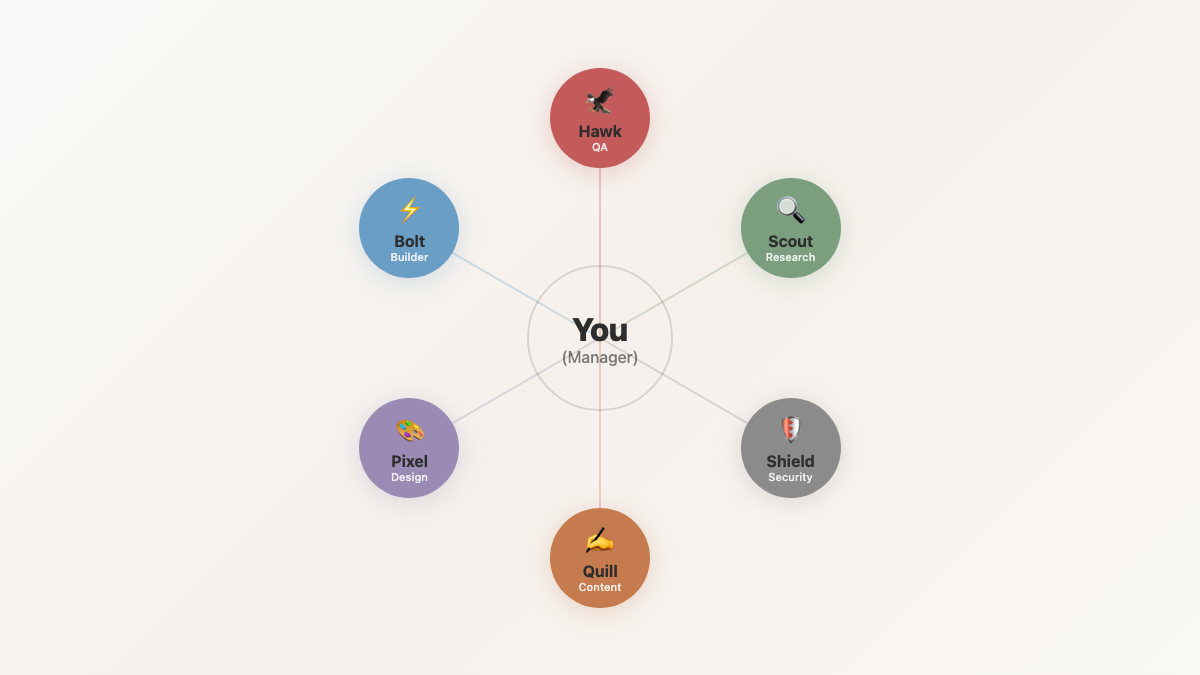
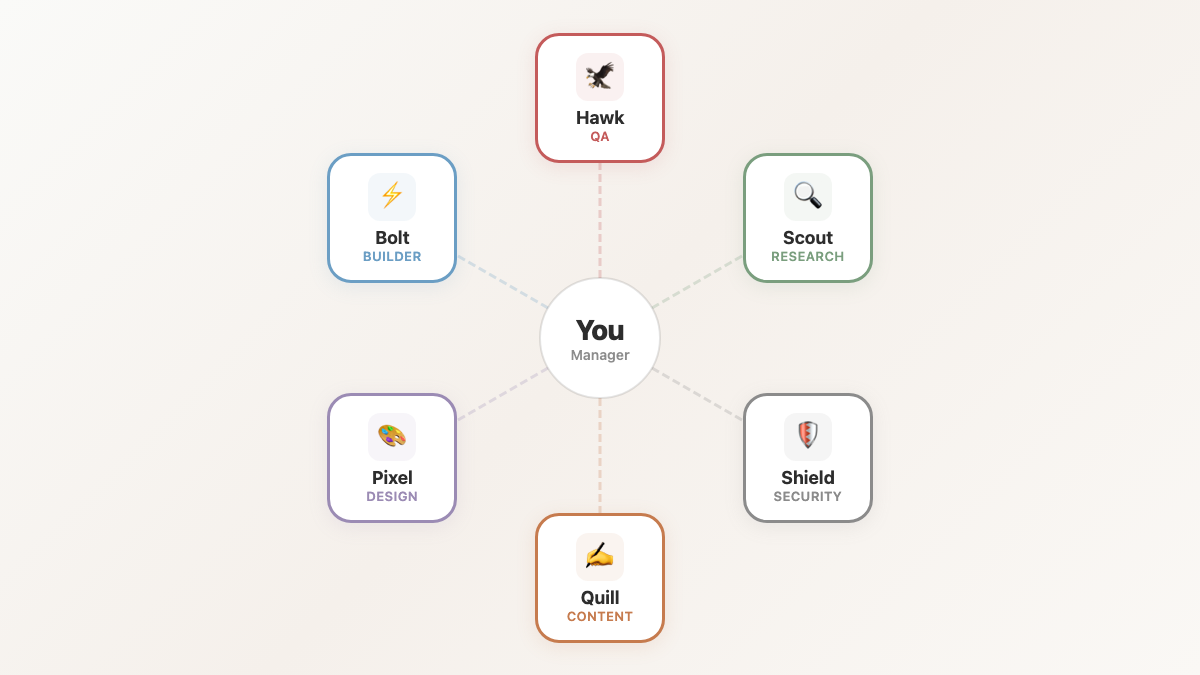
Address Edo's feedback on all posts
Fixes:
- Removed all Lenny's podcast references (Wed, Tue, Fri articles)
- Renamed 'This Week in AI' → 'The AI Signal' (Tue)
- Updated Monday agent hub image: bigger cards, proper icon backgrounds, rounded corners
- Added Thursday LinkedIn teaser post that drives to Substack deep dive

Still needed:
- Thursday: new image (current one too simple)
- Tuesday: new image for 'The AI Signal' branding

diff --git a/content/week-apr-7/tue-substack.md b/content/week-apr-7/tue-substack.md
@@ -1,6 +1,6 @@
 # Tuesday Substack (Free) — Apr 8
 
-## Title: 5 Things That Actually Matter in AI This Week
+## Title: The AI Signal: 5 Stories Worth Your Attention
 
 Five stories from the past week that I think are worth your attention. Not a news recap — my take on what each one means for people who actually build things.
 
@@ -8,7 +8,7 @@ Five stories from the past week that I think are worth your attention. Not a new
 
 ### 1. Anthropic went from $1B to $19B ARR in 14 months
 
-Lenny Rachitsky just published an interview with Anthropic's Head of Growth, Amol Avasare. The numbers are absurd: $1 billion to $19 billion in annual recurring revenue in just over a year. That makes Claude the fastest-growing AI product in history.
+A recent interview with Anthropic's Head of Growth, Amol Avasare. The numbers are absurd: $1 billion to $19 billion in annual recurring revenue in just over a year. That makes Claude the fastest-growing AI product in history.
 
 But the interesting part isn't the number. It's how they did it.
 
@@ -30,7 +30,7 @@ My take: This is what "AI-native engineering" actually looks like. Not "AI assis
 
 ### 3. Simon Willison says mid-career engineers are more at risk than juniors
 
-On Lenny's podcast, Simon Willison (creator of Django, one of the most respected voices in dev tooling) said something that made me uncomfortable: mid-career engineers are more at risk from AI than juniors.
+In a recent interview, Simon Willison (creator of Django, one of the most respected voices in dev tooling) said something that made me uncomfortable: mid-career engineers are more at risk from AI than juniors.
 
 His reasoning: juniors are learning with AI from day one. They're native. Mid-career engineers have habits and workflows built around manually writing code. They're the ones who resist the tools and fall behind.
 

diff --git a/content/week-apr-7/thu-linkedin-teaser.md b/content/week-apr-7/thu-linkedin-teaser.md
@@ -1,0 +1,27 @@
+# Thursday LinkedIn Teaser — Apr 10
+
+## Title: The pattern that every serious AI workflow converges on
+
+LinkedIn's editor uses it.
+Stripe's engineering team uses it.
+I use it every night building side projects.
+
+Two agents. One builds. One reviews. You manage.
+
+It sounds simple. It is simple. But the difference in output quality is massive.
+
+Here's why it works:
+
+→ A single AI agent will confidently write beautiful code that breaks in production. It can't genuinely critique its own work.
+
+→ Two agents with different roles catch each other's blind spots. The builder optimizes for "get it done." The reviewer optimizes for "get it right."
+
+→ The tension between those two goals is where the quality comes from.
+
+I just published a full deep dive on how to set it up — including the exact system prompts, the handoff process, and what it costs ($300/month total).
+
+I also break down what Daniel Roth (LinkedIn's editor) calls his "Bob the Builder and Ray the Reviewer" setup, and how Stripe's Minions handle the same pattern at 1,300 PRs per week.
+
+The full breakdown is on my Substack. Link in comments.
+
+If you're using AI to code and NOT running a builder + reviewer setup, you're shipping bugs faster. Ask me how I know.

diff --git a/content/week-apr-7/fri-linkedin.md b/content/week-apr-7/fri-linkedin.md
@@ -2,7 +2,7 @@
 
 ## Title: Simon Willison writes 95% of his code from his phone. That sentence should scare mid-career engineers.
 
-Simon Willison — creator of Django, one of the most respected developers alive — just said on Lenny's podcast that he writes 95% of his code from his phone.
+Simon Willison — creator of Django, one of the most respected developers alive — recently shared that he writes 95% of his code from his phone.
 
 Not pseudocode. Not notes. Actual shipping code. From his phone.
 

diff --git a/content/week-apr-7/wed-linkedin.md b/content/week-apr-7/wed-linkedin.md
@@ -6,7 +6,7 @@ Anthropic just hit $19 billion in ARR. From $1 billion. In 14 months.
 
 Everyone's focused on the model quality. "Claude is so good." "Opus is amazing." Sure. But that's not why they're growing this fast.
 
-The real story is buried in an interview their Head of Growth did on Lenny's podcast this week.
+The real story is buried in a recent interview with their Head of Growth.
 
 They built an internal tool called CASH.
 
